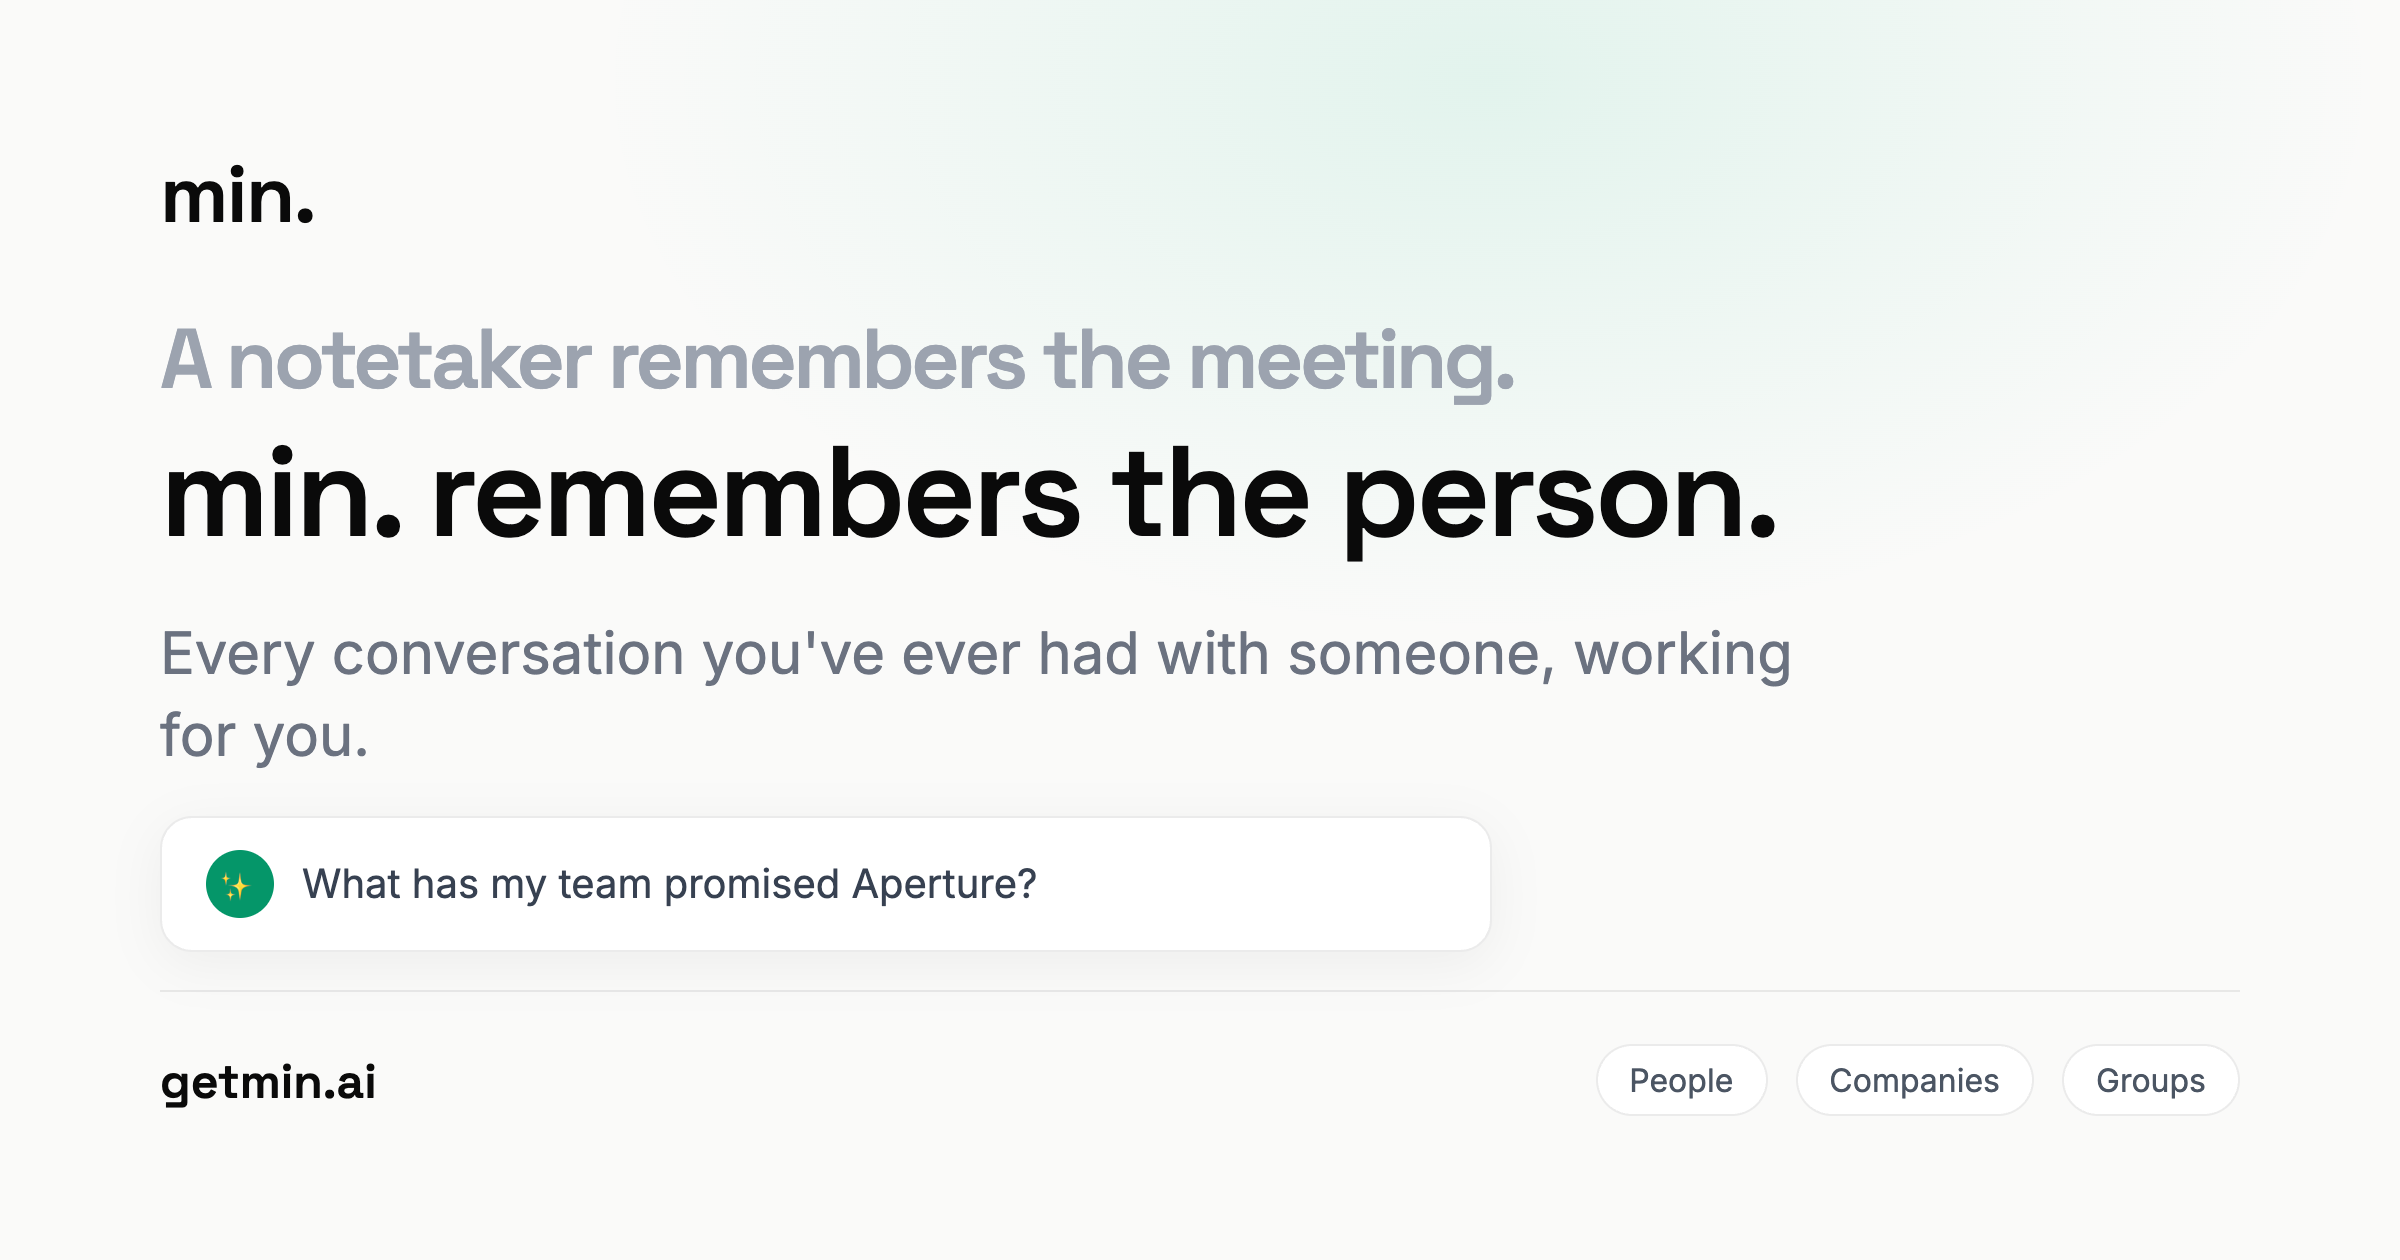
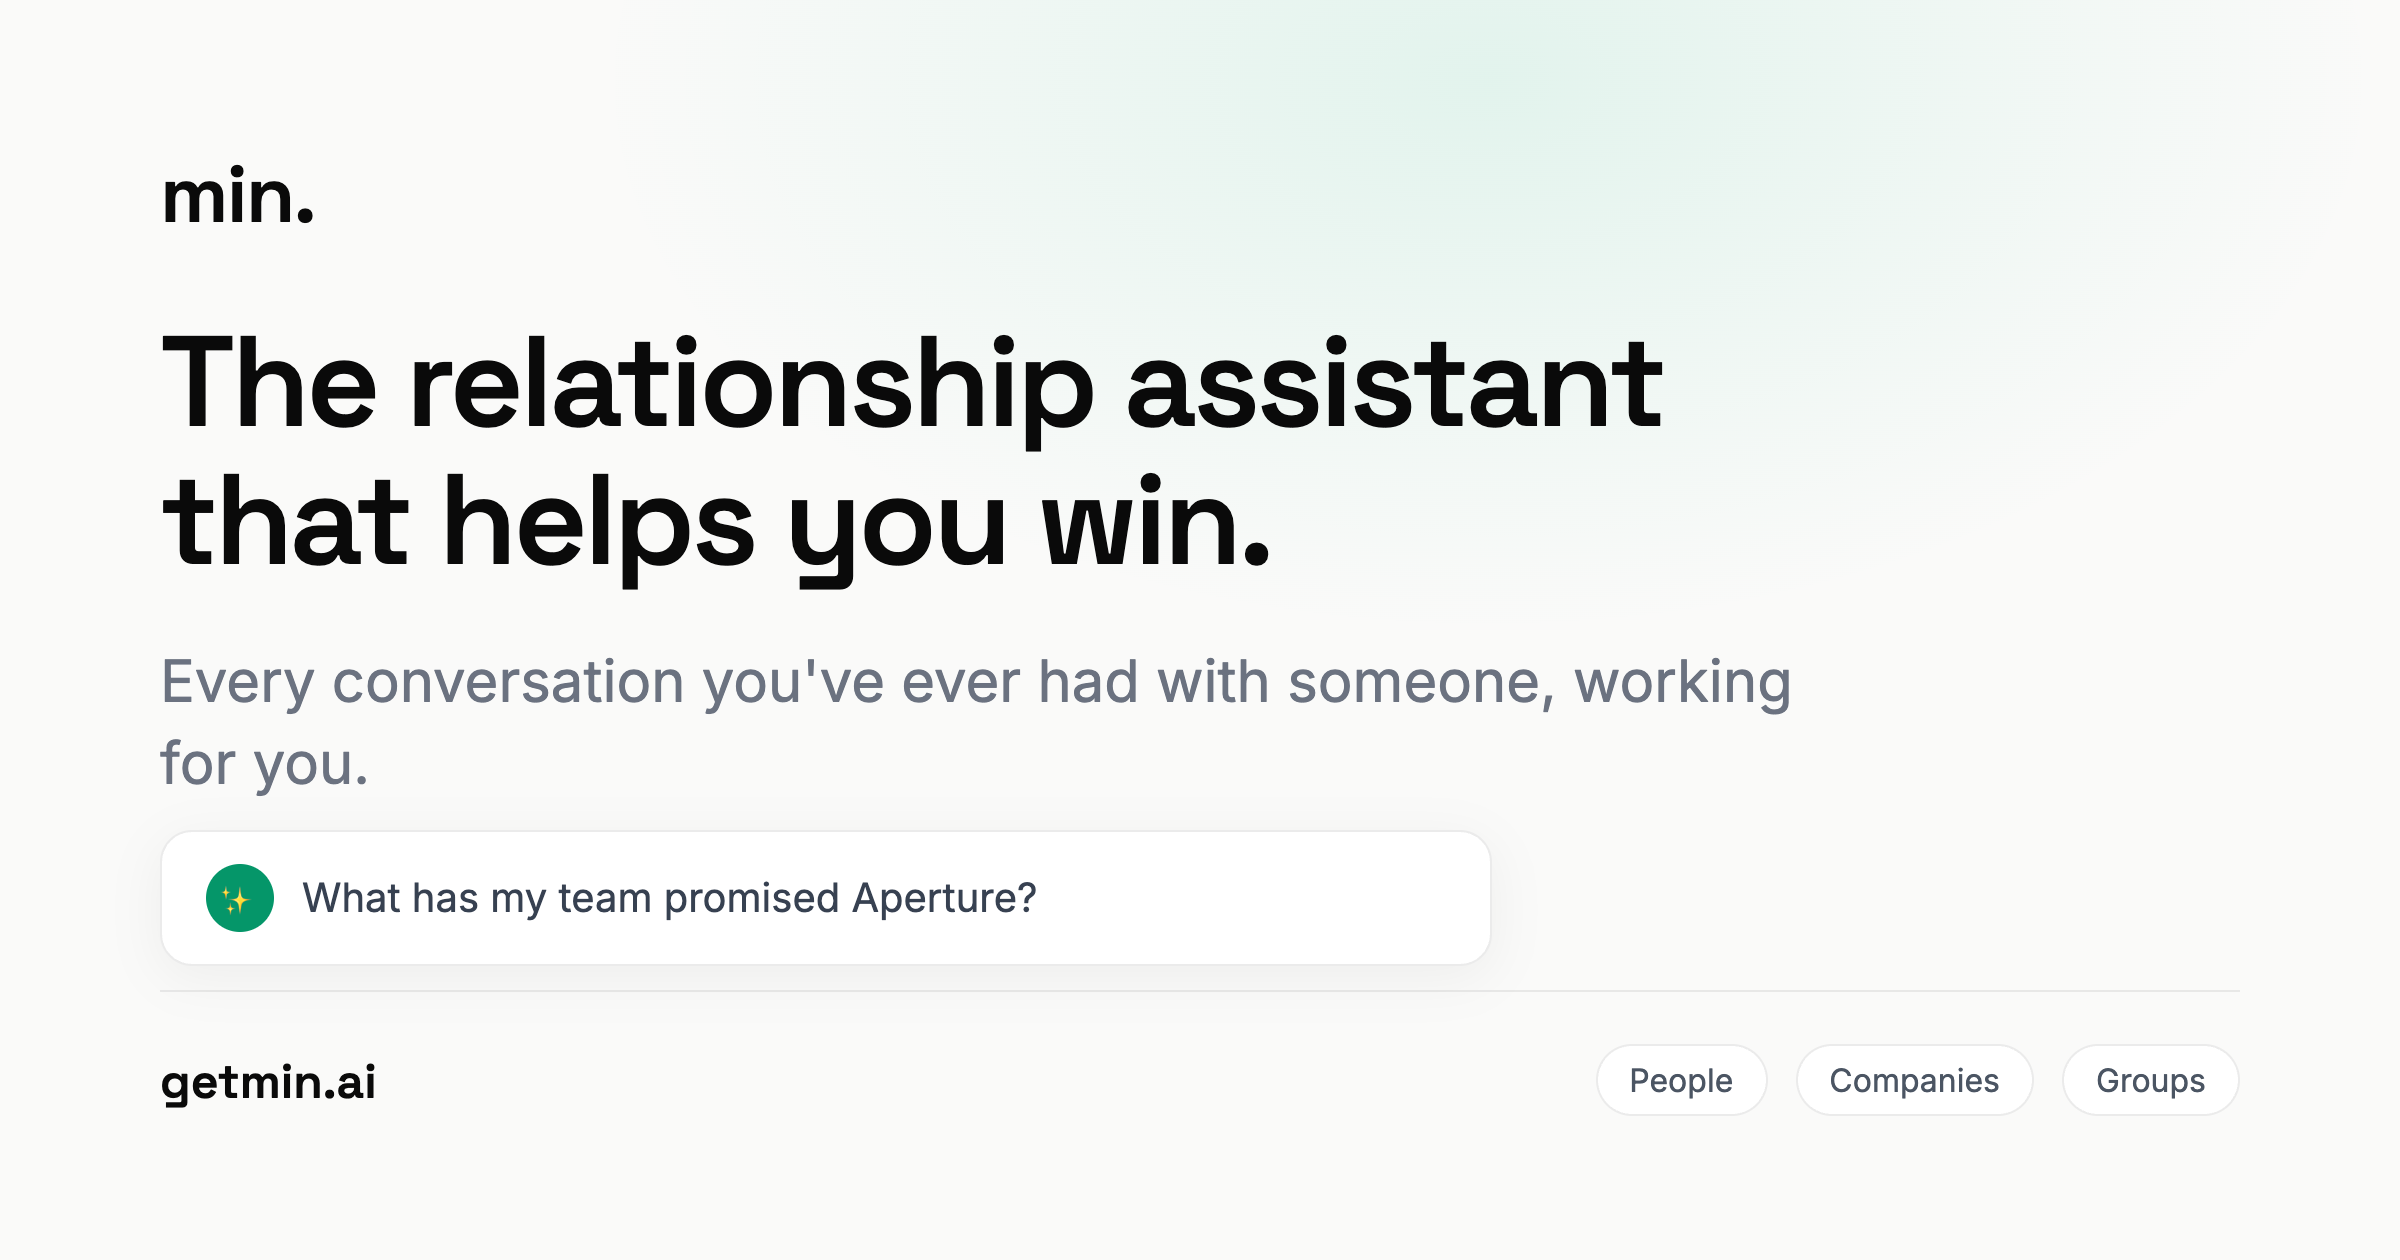
Hero: the relationship assistant that helps you win
User-authored H1 replaces the notetaker/person contrast. The outcome sub
(close the deal, get the promotion, get the callback) stays. Cascaded to
title, meta description, OG/Twitter tags, JSON-LD, About title, static
crawler mirror, llms.txt, and a re-rendered OG share card. The
notetaker/person line survives in llms.txt as a secondary positioning
fact.

Changed region(s): [[0.0625, 0.2476, 0.75, 0.4643], [0.0625, 0.4952, 0.75, 0.619], [0.0625, 0.681, 0.4375, 0.7429]]

diff --git a/index.html b/index.html
@@ -4,32 +4,32 @@
   <head>
     <meta charset="UTF-8" />
     <meta name="viewport" content="width=device-width, initial-scale=1.0" />
-    <title>The AI that remembers the person | min.</title>
+    <title>The relationship assistant that helps you win | min.</title>
     <!-- Primary Meta Tags -->
-    <meta name="title" content="The AI that remembers the person | min." />
-    <meta name="description" content="A notetaker remembers the meeting. min. remembers the person. Every conversation you've ever had with someone, working for you. Free for your whole team." />
+    <meta name="title" content="The relationship assistant that helps you win | min." />
+    <meta name="description" content="The relationship assistant that helps you win. Every conversation you've ever had with someone, working for you. Free for your whole team." />
     <meta name="keywords" content="relationship assistant, relationship memory, relationship context layer, memory layer for CRM, relationship capsule, CRM alternative, calendar and email assistant, meeting prep, follow up reminders, relationship management" />
     <meta name="author" content="min." />
 
     <!-- Open Graph / Facebook -->
     <meta property="og:type" content="website" />
     <meta property="og:url" content="https://getmin.ai/" />
-    <meta property="og:title" content="The AI that remembers the person | min." />
-    <meta property="og:description" content="A notetaker remembers the meeting. min. remembers the person. Every conversation you've ever had with someone, working for you. Free for your whole team." />
+    <meta property="og:title" content="The relationship assistant that helps you win | min." />
+    <meta property="og:description" content="The relationship assistant that helps you win. Every conversation you've ever had with someone, working for you. Free for your whole team." />
     <meta property="og:image" content="https://getmin.ai/og-cover.png" />
     <meta property="og:image:width" content="2400" />
     <meta property="og:image:height" content="1260" />
-    <meta property="og:image:alt" content="min. — the AI that remembers the person" />
+    <meta property="og:image:alt" content="min. — the relationship assistant that helps you win" />
     <meta property="og:site_name" content="min." />
     <meta property="og:locale" content="en_US" />
 
     <!-- Twitter -->
     <meta name="twitter:card" content="summary_large_image" />
     <meta name="twitter:url" content="https://getmin.ai/" />
-    <meta name="twitter:title" content="The AI that remembers the person | min." />
-    <meta name="twitter:description" content="A notetaker remembers the meeting. min. remembers the person. Every conversation you've ever had with someone, working for you. Free for your whole team." />
+    <meta name="twitter:title" content="The relationship assistant that helps you win | min." />
+    <meta name="twitter:description" content="The relationship assistant that helps you win. Every conversation you've ever had with someone, working for you. Free for your whole team." />
     <meta name="twitter:image" content="https://getmin.ai/og-cover.png" />
-    <meta name="twitter:image:alt" content="min. — the AI that remembers the person" />
+    <meta name="twitter:image:alt" content="min. — the relationship assistant that helps you win" />
     <meta name="twitter:creator" content="@getminai" />
     <meta name="twitter:site" content="@getminai" />
     
@@ -71,7 +71,7 @@
           "@type": "SoftwareApplication",
           "@id": "https://getmin.ai/#app",
           "name": "min.",
-          "description": "The AI that remembers the person, not just the meeting. min. records meetings (bot or botless), reads email and calendar, and distills every relationship into a living capsule: a one page summary you can ask anything, share as one link, and paste into any doc, ticket, or CRM.",
+          "description": "The relationship assistant that helps you win. min. records meetings (bot or botless), reads email and calendar, and distills every relationship into a living capsule: a one page summary you can ask anything, share as one link, and paste into any doc, ticket, or CRM.",
           "applicationCategory": "BusinessApplication",
           "applicationSubCategory": "Relationship Intelligence",
           "operatingSystem": "macOS, Windows",
@@ -161,7 +161,7 @@
         <style>#root > main[hidden] { display: block; }</style>
       </noscript>
       <main hidden>
-        <h1>A notetaker remembers the meeting. min. remembers the person.</h1>
+        <h1>The relationship assistant that helps you win.</h1>
         <p>
           Close the deal. Get the promotion. Get the callback. Every
           conversation you've ever had with someone, working for you.

diff --git a/src/pages/Index.tsx b/src/pages/Index.tsx
@@ -12,10 +12,10 @@ const Index = () => {
   return (
     <>
       <Helmet>
-        <title>The AI that remembers the person | min.</title>
+        <title>The relationship assistant that helps you win | min.</title>
         <meta
           name="description"
-          content="A notetaker remembers the meeting. min. remembers the person. Every conversation you've ever had with someone, working for you. Free for your whole team."
+          content="The relationship assistant that helps you win. Every conversation you've ever had with someone, working for you. Free for your whole team."
         />
         <link rel="canonical" href="https://getmin.ai" />
       </Helmet>

diff --git a/src/components/landing/LandingHero.tsx b/src/components/landing/LandingHero.tsx
@@ -15,10 +15,7 @@ export default function LandingHero() {
         <div className="text-center lg:text-left">
           <FadeIn delay={0.1}>
             <h1 className="font-display text-[2.6rem] font-semibold leading-[1.08] tracking-tight text-gray-900 sm:text-5xl md:text-6xl">
-              <span className="text-gray-400">
-                A notetaker remembers the meeting.
-              </span>
-              <br /> min. remembers the person.
+              The relationship assistant that helps you win.
             </h1>
           </FadeIn>
 

diff --git a/src/pages/About.tsx b/src/pages/About.tsx
@@ -55,7 +55,7 @@ export default function About() {
   return (
     <>
       <Helmet>
-        <title>About min. | The AI that remembers the person</title>
+        <title>About min. | The relationship assistant that helps you win</title>
         <meta
           name="description"
           content="min. turns your calendar and email into a living memory of every relationship, person, company, and group, so the people whose work runs on relationships never have to rely on memory alone."

diff --git a/public/og-image.html b/public/og-image.html
@@ -148,8 +148,7 @@
             <div>
                 <div class="logo">min.</div>
                 <div class="headline">
-                    <span class="muted">A notetaker remembers the meeting.</span>
-                    min. remembers the person.
+                    The relationship assistant<br>that helps you win.
                 </div>
                 <div class="subheadline">
                     Every conversation you've ever had with someone, working for you.
